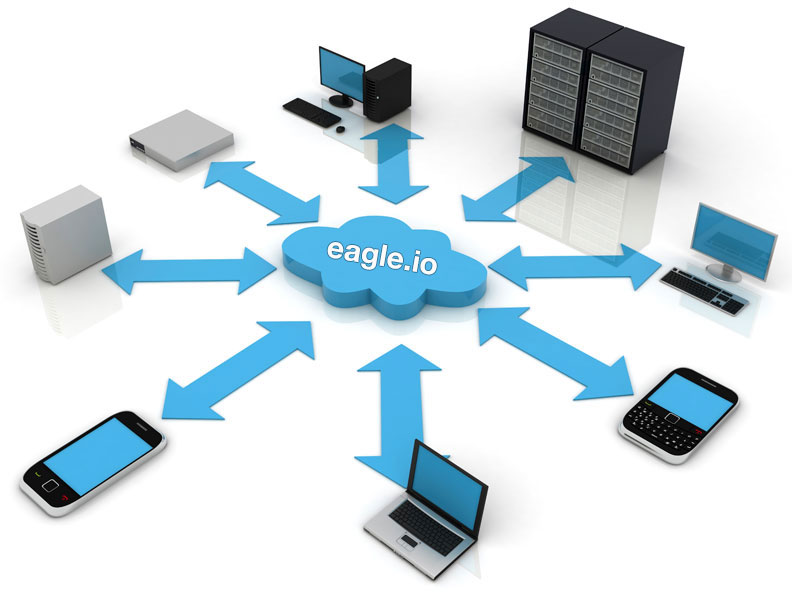
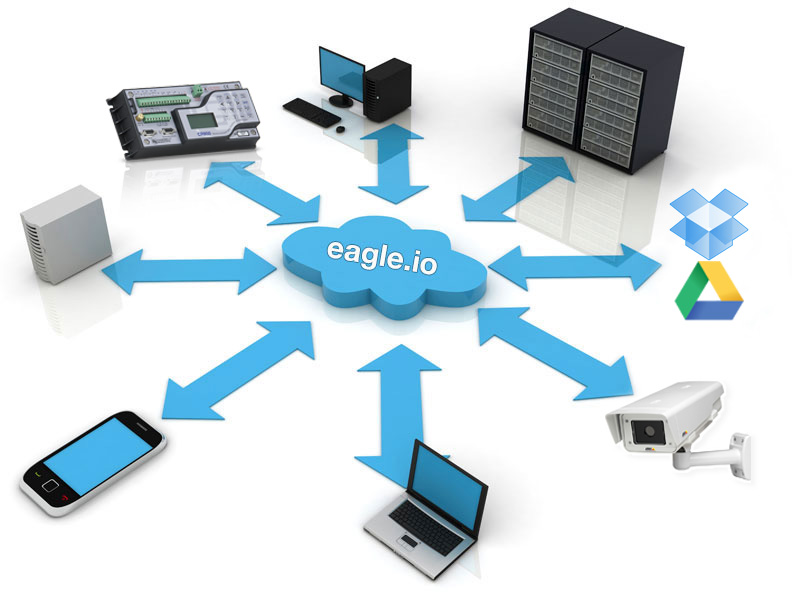
updates

Changed region(s): [[0.1212, 0.1212, 0.3333, 0.303], [0.8182, 0.303, 1.0, 0.5455], [0.7576, 0.6061, 0.9697, 0.8182]]

diff --git a/source/faq/index.rst b/source/faq/index.rst
@@ -17,9 +17,7 @@ We support the latest versions of all major browsers: Chrome, Firefox, Internet 
 
 What languages do you support?
 ~~~~~~~~~~~~~~~~~~~~~~~~~~~~~~
-English is currently the only supported language. We plan on adding full Internationalisation and Localisation (i18n) support in the near future.
-
-
+English is currently the only supported language. Support for other languages is coming soon. You can however set your timezone and display preferences.
 
 Data Loggers
 ------------
@@ -27,12 +25,13 @@ Data Loggers
 What types of data loggers, PLCs and RTUs are supported?
 ~~~~~~~~~~~~~~~~~~~~~~~~~~~~~~~~~~~~~~~~~~~~~~~~~~~~~~~~
 We support Campbell Scientific data loggers that use the PakBus protocol. 
-This includes the CR200X, CR800 and CR1000 series.
+This includes the CR200, CR800 and CR1000 series.
 
 .. image:: datalogger_campbell_pakbus.jpg
 	:scale: 50 %
 
-| 
+Support for a wide range of data loggers and devices is coming soon. `Contact Us <https://eagle.io/contact/>`_ to find out how to get support for your device.
+
 
 What connection options are supported?
 ~~~~~~~~~~~~~~~~~~~~~~~~~~~~~~~~~~~~~~
@@ -52,7 +51,7 @@ Files
 
 What types of time series data files do you support?
 ~~~~~~~~~~~~~~~~~~~~~~~~~~~~~~~~~~~~~~~~~~~~~~~~~~~~
-We support most types of delimited text files such as csv, loggernet and other flat formats. See Data Source parameter configuration for futher details.
+We support most types of delimited text files such as csv, loggernet and other standard formats. See :ref:`Data Source <node-configuration-datasource-datalogger>` configuration for full details.
 
 What file transports do you support for automatic collection?
 ~~~~~~~~~~~~~~~~~~~~~~~~~~~~~~~~~~~~~~~~~~~~~~~~~~~~~~~~~~~~~
@@ -66,21 +65,20 @@ Support is coming for `Google Drive <http://drive.google.com>`_, FTP and Email.
 
 Can I upload other types of files?
 ~~~~~~~~~~~~~~~~~~~~~~~~~~~~~~~~~~
-Eagle.io supports uploading files of any type. You can manually upload files through the interface or support an Attachment Source for automated uploads. Please note that we charge a small fee for attachment storage.
-
+Eagle.io supports uploading files of any type. You can manually upload files through the interface or use an :ref:`Attachment Source <node-configuration-attachmentsource>` for automated uploads. Please note that attachment storage incurs a fee on the owners account.
 All content and files uploaded must comply with our `Acceptable Use Policy <https://eagle.io/policies/acceptableuse>`_.
 
 
 Cameras
 -------
 
-Can my camera send images or video files to Eagle.io?
-~~~~~~~~~~~~~~~~~~~~~~~~~~~~~~~~~~~~~~~~~~~~~~~~~~~~~
-Yes, you can create an Attachment Source which accepts files of any type (including images and video). The files are stored as attachments and you can even set your Locations to display the latest image to be uploaded. Images and video can be reviewed in the built-in media gallery or downloaded for offline viewing.
+Do you support cameras sending images or video files to Eagle.io?
+~~~~~~~~~~~~~~~~~~~~~~~~~~~~~~~~~~~~~~~~~~~~~~~~~~~~~~~~~~~~~~~~~
+Yes, you can create an :ref:`Attachment Source <node-configuration-attachmentsource>` which accepts files of any type. The files are stored as Attachments and you can set your Locations to display the most recent images uploaded. Images and video can be reviewed in the media gallery or downloaded for offline viewing.
 
 We currently support email as the Attachment Source transport. Support for FTP is coming soon.
-Your camera must support email - you are assigned a unique message Subject to use.
+Your camera must have in-built support for emailing images/files with custom subject text.
 
 Do you support live streaming video?
 ~~~~~~~~~~~~~~~~~~~~~~~~~~~~~~~~~~~~
-No. Support for live streaming and PTZ Control (Pan, Tilt, Zoom) is coming Q3 2014.
+Support for live streaming video with optional PTZ control (Pan, Tilt, Zoom) is coming soon.

diff --git a/source/topics/nodes/attachmentsource.rst b/source/topics/nodes/attachmentsource.rst
@@ -1,3 +1,5 @@
+.. _node-configuration-attachmentsource:
+
 Attachment Source
 =================
 |icon-attachmentsource| Attachment Sources have the ability to automatically acquire or receive Attachments. Attachment Sources can be created inside Locations only.
